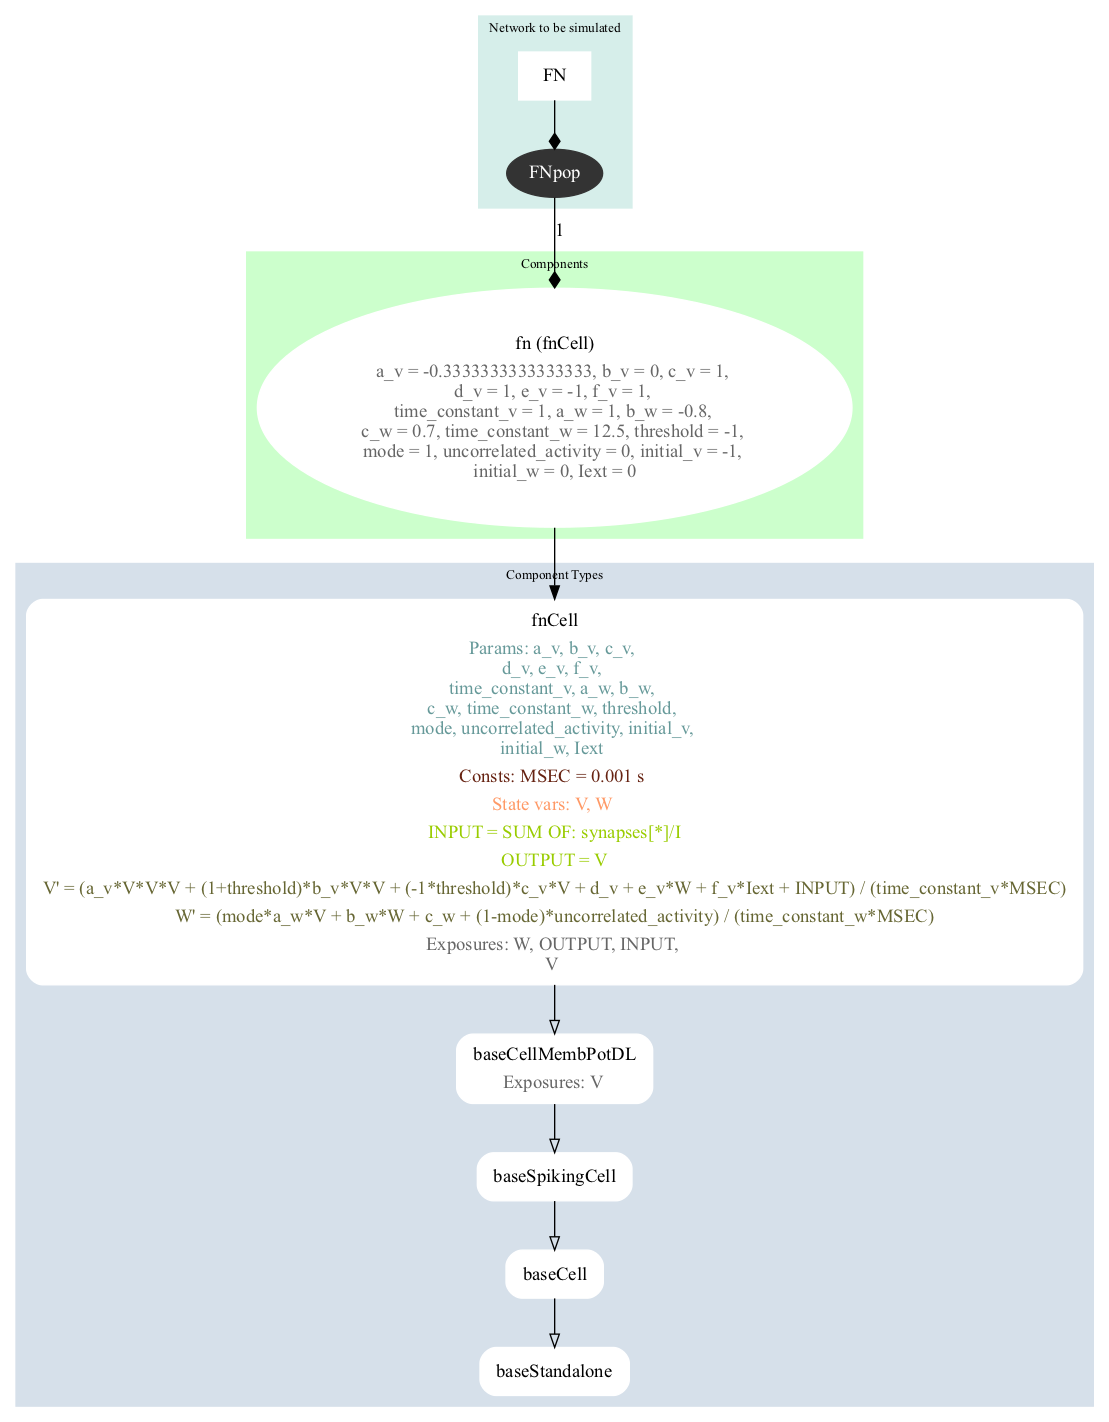
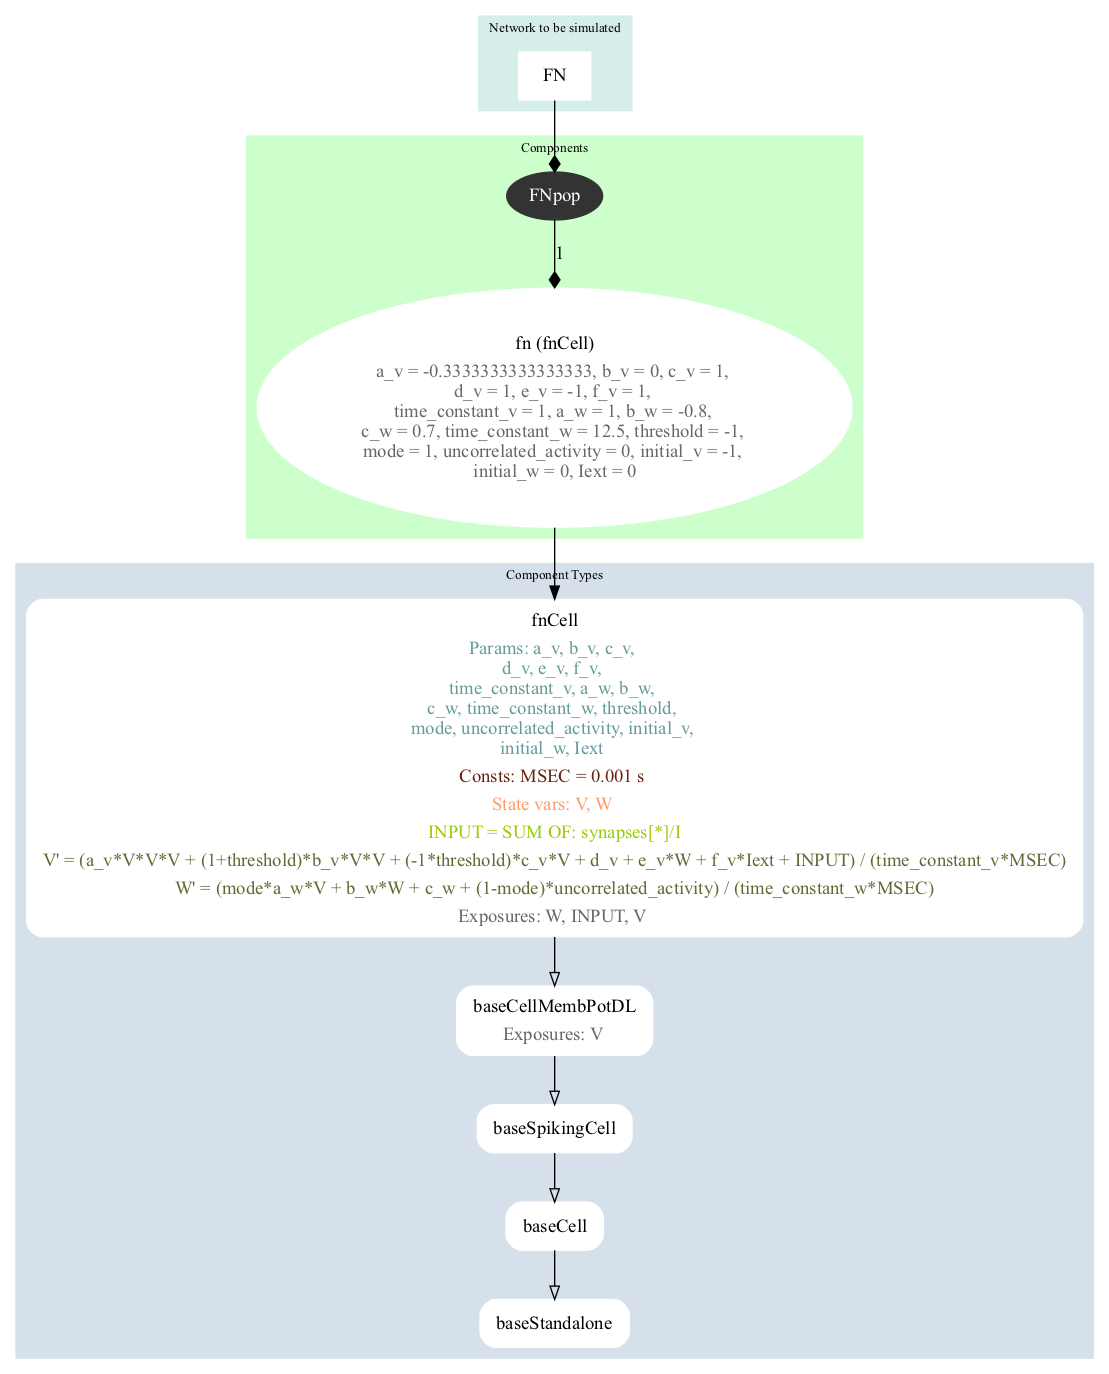
Regenerated & update readme

diff --git a/examples/NeuroML/README.md b/examples/NeuroML/README.md
@@ -20,6 +20,14 @@ The definitions of the components used for A, B, etc. can be found in [PNL.xml](
 <p align="center"><img src="LEMS_SimABCD.png" alt="LEMS_SimABCD.png" height="400"></p>
 
 
+A version of the network in MDF can be generated from NeuroMLlite definition with: `python ABCD.py -mdf` producing [ABCD.mdf.yaml](ABCD.mdf.yaml) and [ABCD.mdf.json](ABCD.mdf.json).
+
+A graph of the structure of the MDF model can be generated with: `python -m modeci_mdf.interfaces.graphviz.exporter ABCD.mdf.yaml 3`
+
+<p align="center"><img src="ABCD.mdf.png" alt="ABCD.mdf.png" height="400"></p>
+
+
+
 ## 1.2) FitzHugh Nagumo cell models
 
 ### NeuroML version
